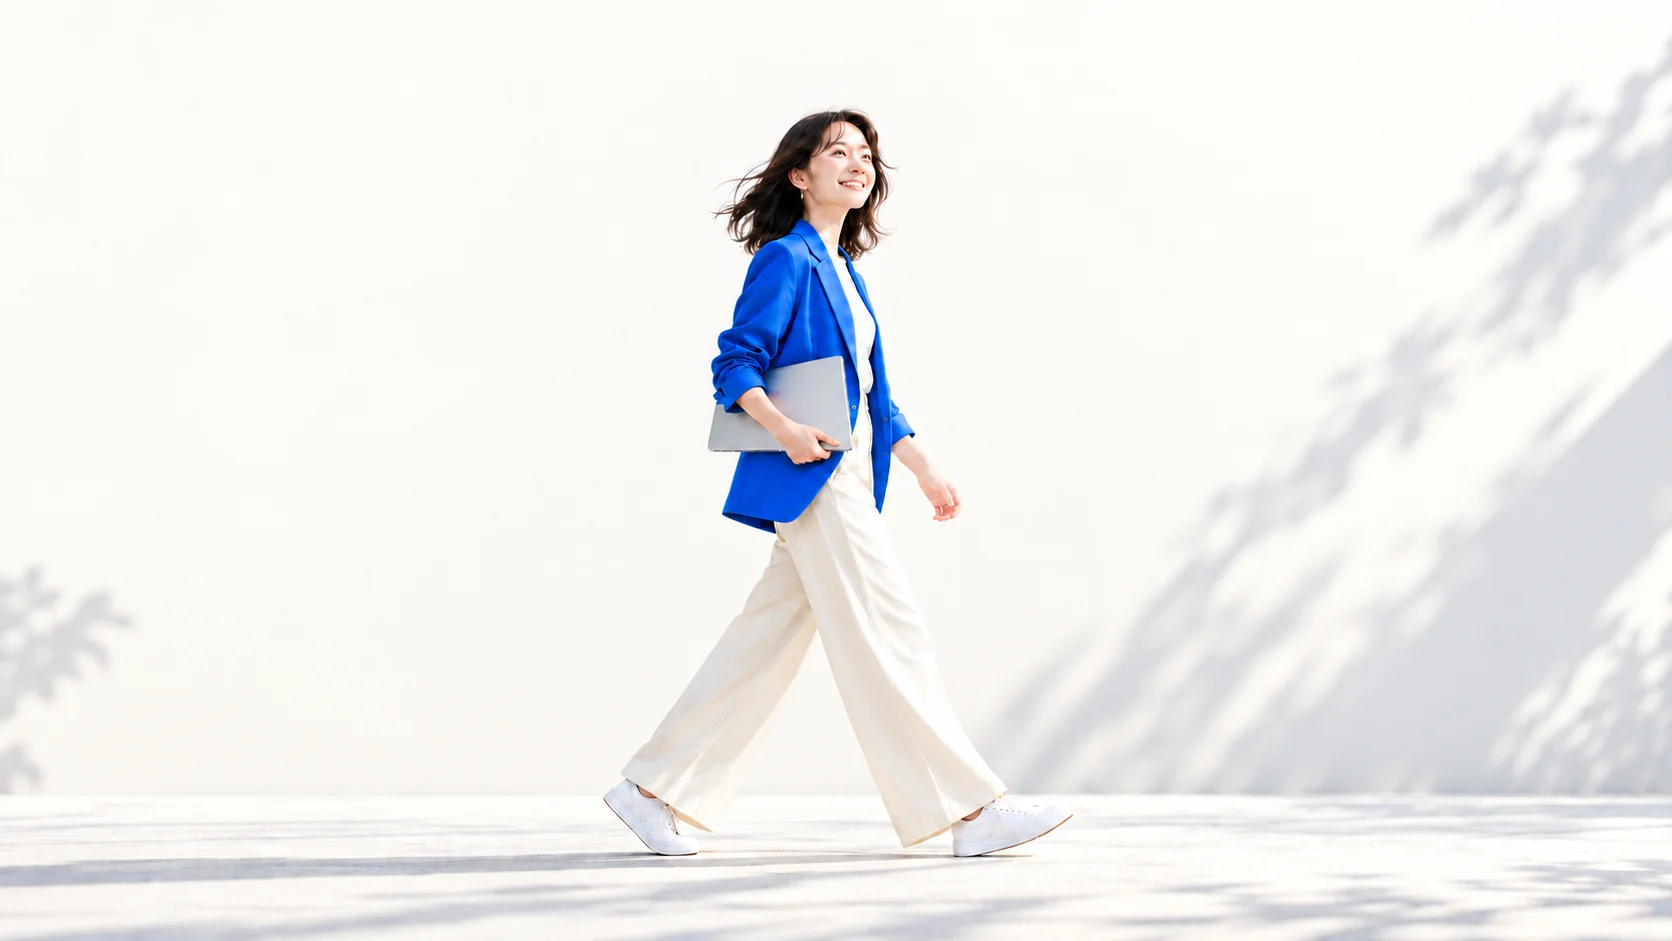
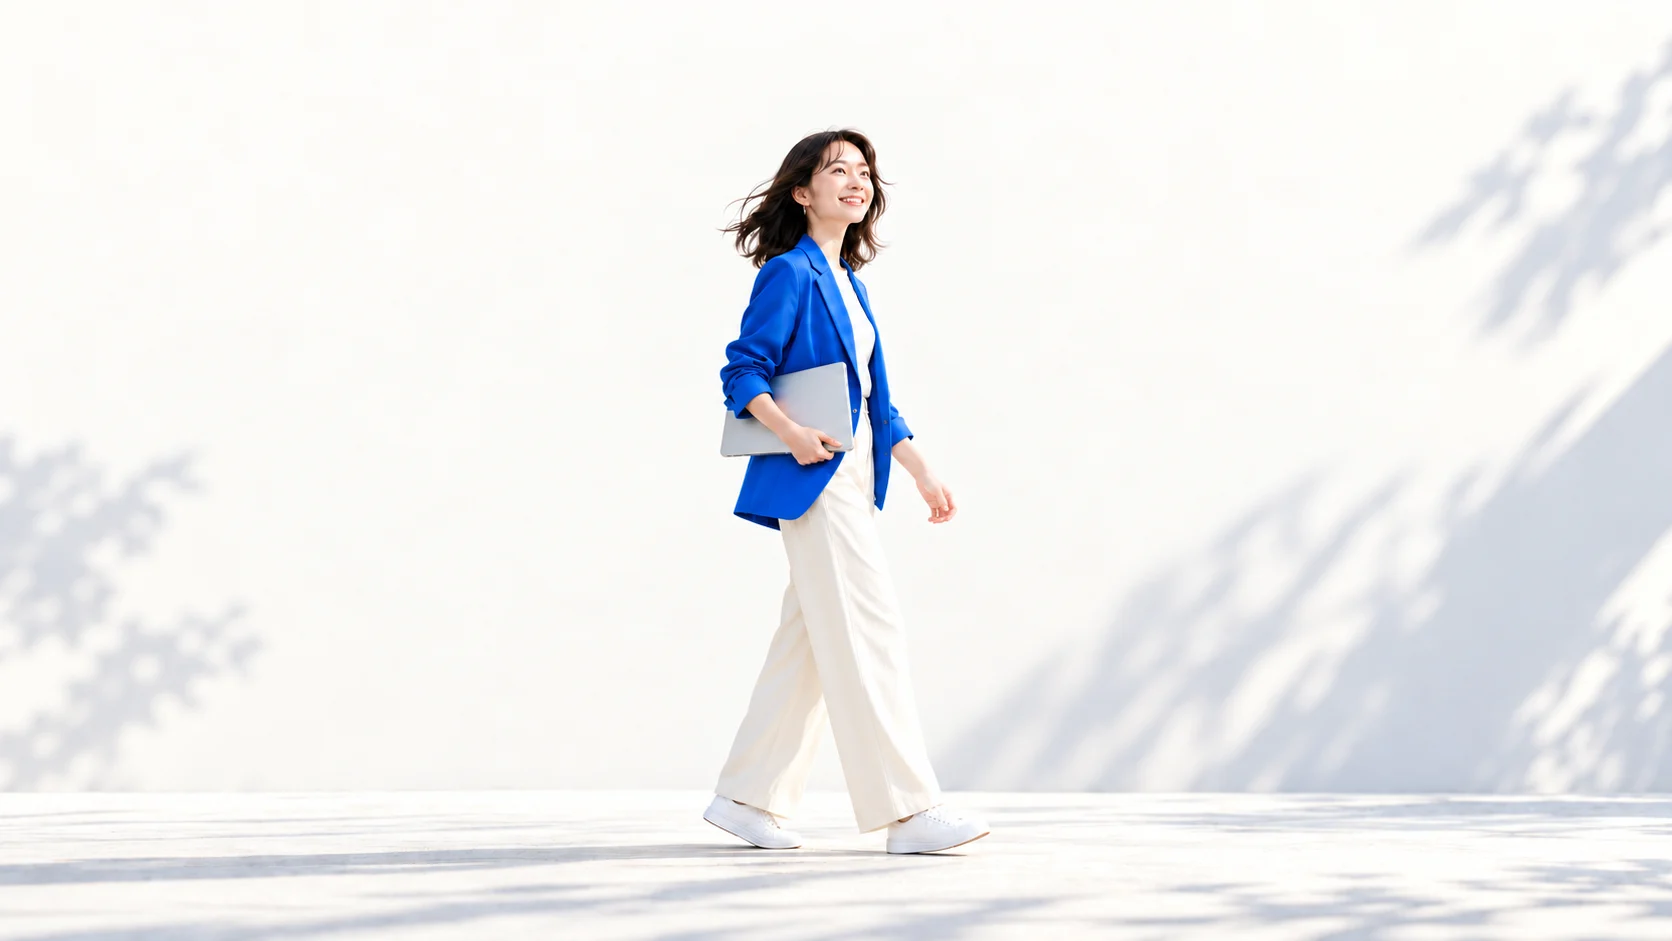
トップ: ファーストビューの文字を見本の画像に寄せる（極太丸ゴシック・行ごとに幅をそろえる・人物を真ん中に細く撮り直し）

diff --git a/src/components/award/aw.css b/src/components/award/aw.css
@@ -3630,9 +3630,16 @@ html.aw-js-ok .aw-hand.is-in .aw-hand__t {
    写真は文字なし。人物が真ん中を歩き、左右に極太の丸ゴシック。差し色はこの区画だけコバルトと黄色（決定版の画像どおり） */
 .fv { position: relative; min-height: min(100svh, 980px); padding-top: var(--aw-head); overflow: hidden; background: #f6f5f1; }
 .fv__bg { position: absolute; inset: 0; }
-.fv__bg img { width: 100%; height: 100%; object-fit: cover; object-position: 47% 60%; }
+.fv__bg img { width: 100%; height: 100%; object-fit: cover; object-position: 50% 70%; }
 .fv__in { position: relative; z-index: 1; min-height: calc(min(100svh, 980px) - var(--aw-head)); display: grid; grid-template-rows: 1fr auto; padding: 0 var(--aw-gut) clamp(28px, 5vh, 56px); }
-.fv__h { align-self: center; display: grid; grid-template-columns: minmax(0, 1fr) clamp(200px, 19vw, 360px) minmax(0, 1fr); font-family: var(--aw-maru), var(--aw-gothic), sans-serif; font-weight: 900; font-size: clamp(44px, 5.8vw, 120px); line-height: 1.15; white-space: nowrap; letter-spacing: -0.02em; color: #111; }
+.fv__h { align-self: center; position: relative; height: 22vw; font-family: var(--aw-maru), var(--aw-gothic), sans-serif; font-weight: 900; line-height: 1; letter-spacing: 0; color: #111; white-space: nowrap; margin-top: -3vw; }
+.fv__col { position: absolute; top: 0; display: grid; row-gap: 1.6vw; }
+.fv__col--l { left: 0; justify-items: start; }
+.fv__col--r { right: 0; justify-items: end; }
+.fv__l1 { font-size: 9.4vw; letter-spacing: -0.03em; }
+.fv__l2 { font-size: 9.6vw; letter-spacing: 0.1em; }
+.fv__r1 { font-size: 9.4vw; letter-spacing: -0.03em; }
+.fv__r2 { font-size: 6.9vw; letter-spacing: -0.06em; }
 .fv__col { display: grid; }
 .fv__col--l { grid-column: 1; justify-items: start; }
 .fv__col--r { grid-column: 3; justify-items: end; }
@@ -3649,7 +3656,7 @@ html.aw-js-ok .aw-hand.is-in .aw-hand__t {
   .fv { min-height: 100svh; }
   .fv__bg img { object-position: 60% 100%; }
   .fv__in { min-height: calc(100svh - var(--aw-head)); grid-template-rows: auto 1fr auto; }
-  .fv__h { display: block; align-self: start; margin-top: 2.5vh; font-size: min(9.2vw, 56px); line-height: 1.25; }
+  .fv__h { display: block; height: auto; align-self: start; margin-top: 2.5vh; font-size: min(9.6vw, 58px); line-height: 1.2; letter-spacing: -0.03em; }
   .fv__col { display: none; }
   .fv__sp { display: grid; }
   .fv__foot { grid-row: 3; flex-direction: column; align-items: stretch; gap: 14px; }

diff --git a/src/app/page.tsx b/src/app/page.tsx
@@ -266,13 +266,14 @@ export default function Home() {
         </picture>
         <div className="fv__in">
           <h1 className="fv__h" id="fv-h" aria-label="あなたの仕事の、ベストパートナー。">
+            {/* PC: 見本どおり、左右の塊ごとに行の幅をそろえる（字の大きさと字間を行ごとに変える） */}
             <span className="fv__col fv__col--l" aria-hidden="true">
-              <span>あなたの</span>
-              <span className="fv__accent">ベスト</span>
+              <span className="fv__l1">あなたの</span>
+              <span className="fv__l2 fv__accent">ベスト</span>
             </span>
             <span className="fv__col fv__col--r" aria-hidden="true">
-              <span>仕事の、</span>
-              <span>パートナー。</span>
+              <span className="fv__r1">仕事の、</span>
+              <span className="fv__r2">パートナー。</span>
             </span>
             {/* スマホは人物が下に来るので、上に2行で */}
             <span className="fv__sp" aria-hidden="true">

diff --git a/src/components/award/fonts.ts b/src/components/award/fonts.ts
@@ -1,4 +1,4 @@
-import { IBM_Plex_Mono, Permanent_Marker, Shippori_Mincho_B1, Zen_Kaku_Gothic_New, Zen_Maru_Gothic } from "next/font/google";
+import { IBM_Plex_Mono, Permanent_Marker, Shippori_Mincho_B1, Zen_Kaku_Gothic_New, Zen_Maru_Gothic, M_PLUS_Rounded_1c } from "next/font/google";
 
 // 見出し: しっぽり明朝 B1（太字だけ）。日本語は分割ファイルが多いので先読みしない
 export const mincho = Shippori_Mincho_B1({
@@ -34,9 +34,9 @@ export const hand = Permanent_Marker({
   variable: "--aw-hand",
 });
 
-// 一番上の大見出し（10/4 決定のファーストビュー「あなたの仕事の、ベストパートナー。」）: Zen丸ゴシック 極太
-export const maru = Zen_Maru_Gothic({
-  weight: ["700", "900"],
+// 一番上の大見出し（10/4 決定のファーストビュー「あなたの仕事の、ベストパートナー。」）: M PLUS Rounded 1c 極太（見本の画像の字に寄せる）
+export const maru = M_PLUS_Rounded_1c({
+  weight: ["800", "900"],
   subsets: ["latin"],
   display: "swap",
   variable: "--aw-maru",
